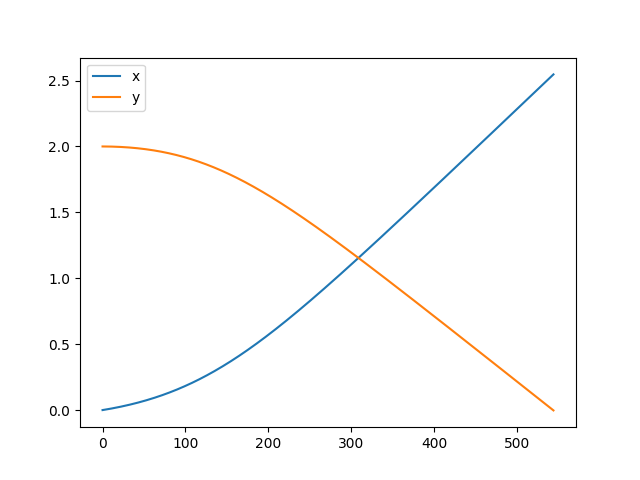
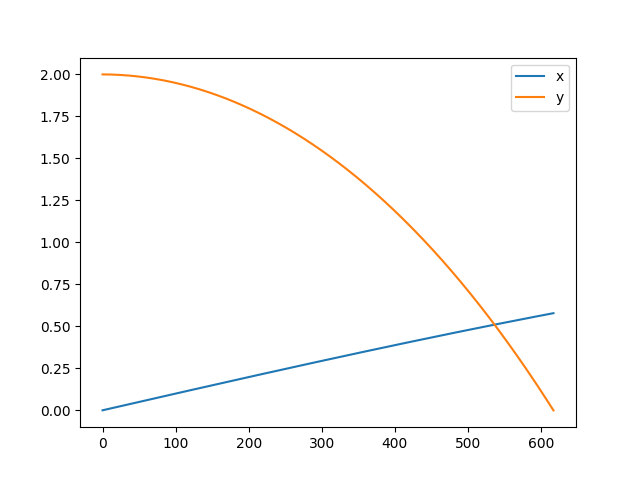
.

diff --git a/modulering/1.py b/modulering/1.py
@@ -15,8 +15,6 @@ def modulation(
     vx = v0x
     vy = v0y
 
-    
-
     stepSize = stepsize
 
     xpoints = []
@@ -26,15 +24,12 @@ def modulation(
     while True:
         angle = math.atan(vy/vx)
         
-        f_no_air = math.sqrt(
-            (-m*g)**2 +
-            ()**2
-        )
-        f_air = -k*(vx**2+vy**2)
-        f = f_no_air + f_air
+        fd = k*(vx**2+vy**2)
+        fx = -fd*math.cos(angle)
+        fy = -m*g + fd*math.sin(angle)
 
-        vx += f/math.cos(angle)/m*stepsize
-        vy += f/math.cos(math.pi-angle)/m*stepSize
+        vx += fx/m*stepSize
+        vy += fy/m*stepSize
 
         x += vx*stepSize
         y += vy*stepSize
@@ -55,7 +50,7 @@ def modulation(
 def main():
     parser = argparse.ArgumentParser()
     
-    parser.add_argument("-k", type=float, default=0.1)
+    parser.add_argument("-k", type=float, default=2.82*math.pi*10**-3)
     parser.add_argument("-m", type=float, default=0.1)
     parser.add_argument("-g", type=float, default=9.82)
     parser.add_argument("-v0x", type=float, default=1)

diff --git a/compare_genomes/searching_for_tata_box.py b/compare_genomes/searching_for_tata_box.py
@@ -31,7 +31,7 @@ def main():
         print(round(done/len(genes)*100,3), "%", end="\r")
         done += 1
     plt.plot(range(len(results)),results)
-    plt.savefig("bysearch_tata")
+    plt.savefig("compare_genomes/bysearch_tata")
 
     with open('bysearch_tata.csv', 'w', newline='\n') as csvfile:
         writer = csv.writer(csvfile)

diff --git a/modulering/2.py b/modulering/2.py
@@ -1,0 +1,6 @@
+x = 0
+def change():
+    x += 1
+
+change()
+print(x)
